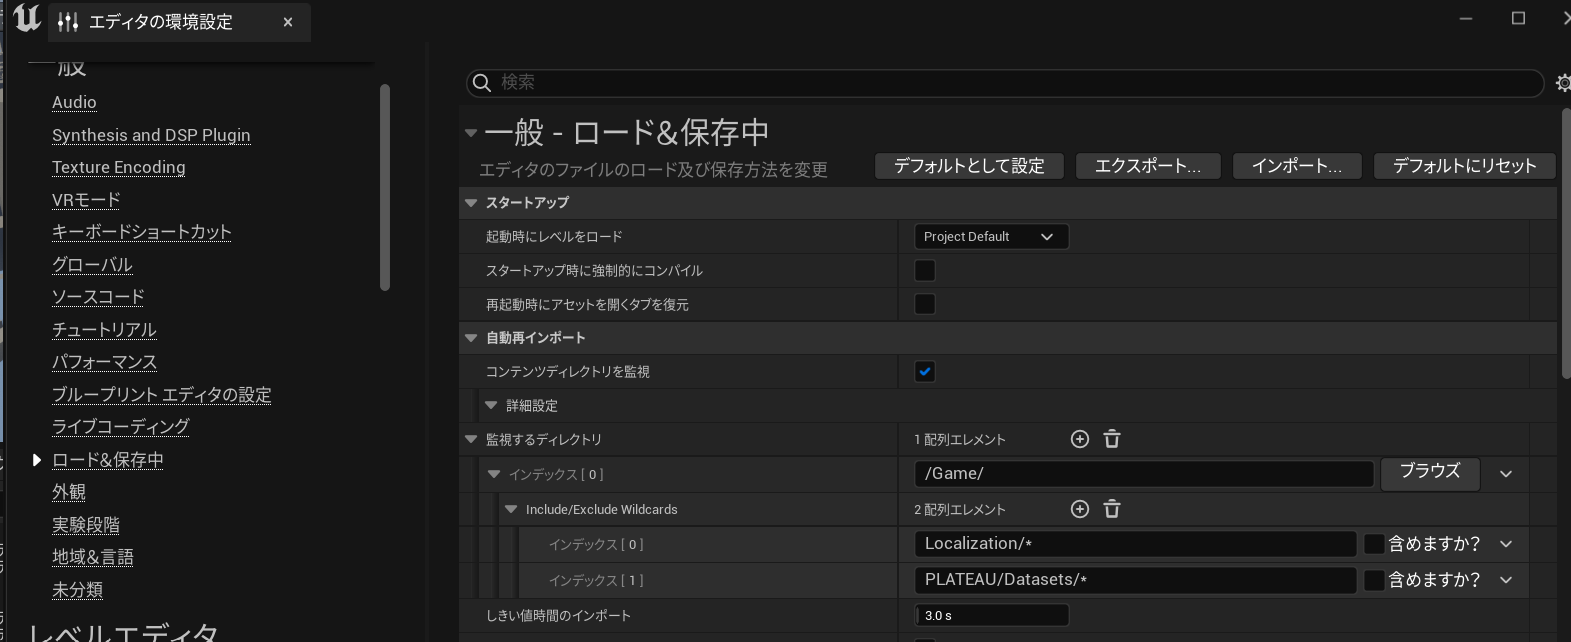
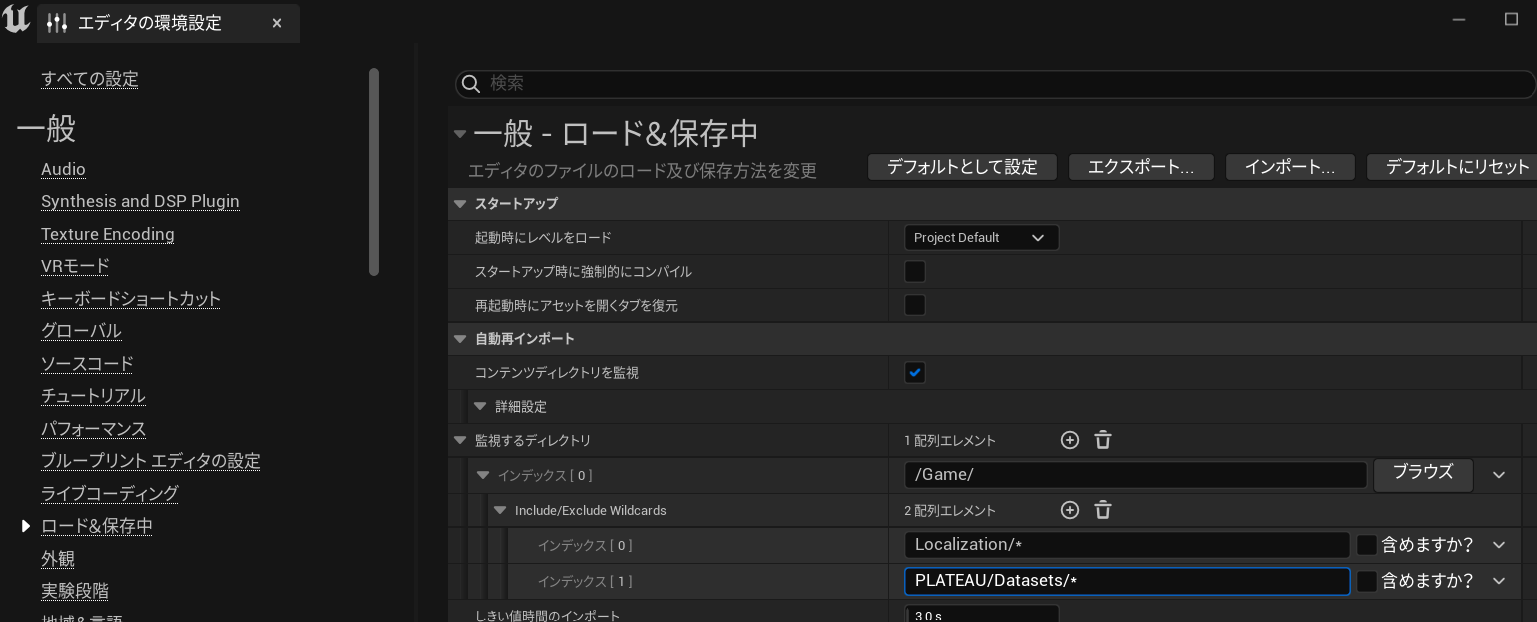
ドキュメント更新

diff --git a/Source/PLATEAURuntime/Private/PLATEAUCityModelLoader.cpp b/Source/PLATEAURuntime/Private/PLATEAUCityModelLoader.cpp
@@ -23,43 +23,19 @@ APLATEAUCityModelLoader::APLATEAUCityModelLoader() {
 }
 
 namespace {
-    void ExecuteInGameThread(const FString& LoaderName, TFunctionRef<void(APLATEAUCityModelLoader*)> Lambda) {
+    void ExecuteInGameThread(APLATEAUCityModelLoader* Loader, TFunctionRef<void(APLATEAUCityModelLoader*)> Lambda) {
         FFunctionGraphTask::CreateAndDispatchWhenReady(
-            [LoaderName, &Lambda] {
-                TArray<AActor*> ActorsToFind;
-                UGameplayStatics::GetAllActorsOfClass(GWorld, APLATEAUCityModelLoader::StaticClass(), ActorsToFind);
-                for (AActor* LoaderActor : ActorsToFind) {
-                    const auto LoaderActorCast = Cast<APLATEAUCityModelLoader>(LoaderActor);
-                    if (LoaderActorCast == nullptr)
-                        continue;
-
-                    if (LoaderActorCast->GetActorNameOrLabel() == LoaderName) {
-                        Lambda(LoaderActorCast);
-                        return;
-                    }
-                }
-                UE_LOG(LogTemp, Error, TEXT("CityModelLoader not found"));
+            [Loader, &Lambda] {
+                Lambda(Loader);
             }, TStatId(), nullptr, ENamedThreads::GameThread)
             ->Wait();
     }
 
-    int ExecuteInGameThreadWithReturn(const FString& LoaderName, TFunctionRef<int(APLATEAUCityModelLoader*)> Lambda) {
+    int ExecuteInGameThreadWithReturn(APLATEAUCityModelLoader* Loader, TFunctionRef<int(APLATEAUCityModelLoader*)> Lambda) {
         int Result;
         FFunctionGraphTask::CreateAndDispatchWhenReady(
-            [LoaderName, &Lambda, &Result] {
-                TArray<AActor*> ActorsToFind;
-                UGameplayStatics::GetAllActorsOfClass(GWorld, APLATEAUCityModelLoader::StaticClass(), ActorsToFind);
-                for (AActor* LoaderActor : ActorsToFind) {
-                    const auto LoaderActorCast = Cast<APLATEAUCityModelLoader>(LoaderActor);
-                    if (LoaderActorCast == nullptr)
-                        continue;
-
-                    if (LoaderActorCast->GetActorNameOrLabel() == LoaderName) {
-                        Result = Lambda(LoaderActorCast);
-                        return;
-                    }
-                }
-                UE_LOG(LogTemp, Error, TEXT("CityModelLoader not found"));
+            [Loader, &Lambda, &Result] {
+                Result = Lambda(Loader);
             }, TStatId(), nullptr, ENamedThreads::GameThread)
             ->Wait();
             return Result;
@@ -94,7 +70,7 @@ void APLATEAUCityModelLoader::LoadAsync() {
             ExtentData = Extent.GetNativeData(),
             GeoReferenceData = GeoReference.GetData(),
             ImportSettings = ImportSettings,
-            OwnerLoaderName = this->GetActorNameOrLabel()
+            OwnerLoader = this
         ]{
             // ファイル検索
             const auto UdxFileCollection =
@@ -135,23 +111,12 @@ void APLATEAUCityModelLoader::LoadAsync() {
         }
     }
 
-    ExecuteInGameThread(OwnerLoaderName,
+    ExecuteInGameThread(OwnerLoader,
         [GmlCount = LoadInputDataArray.Num()](APLATEAUCityModelLoader* Loader){
         Loader->Status.TotalGmlCount = GmlCount;
     });
 
     for (int Index = 0; Index < LoadInputDataArray.Num(); ++Index) {
-        // TODO: RW Lock
-        FGenericPlatformProcess::ConditionalSleep(
-            [OwnerLoaderName]() {
-            const auto RunningTaskCount = ExecuteInGameThreadWithReturn(OwnerLoaderName,
-                [OwnerLoaderName](APLATEAUCityModelLoader* Loader) {
-                    return Loader->Status.LoadingGmls.Num();
-                });
-            return RunningTaskCount < 4;
-        }
-        , 2);
-
         const auto Destination = FPaths::ProjectContentDir() + "PLATEAU/Datasets";
 
         FLoadInputData InputData = LoadInputDataArray[Index];
@@ -168,10 +133,25 @@ void APLATEAUCityModelLoader::LoadAsync() {
             UE_LOG(LogTemp, Error, TEXT("Failed to copy %s"), *InputData.GmlPath);
         }
 
+        FGenericPlatformProcess::ConditionalSleep(
+            [OwnerLoader]() {
+                const auto RunningTaskCount = ExecuteInGameThreadWithReturn(OwnerLoader,
+                    [](APLATEAUCityModelLoader* Loader) {
+                        return Loader->Status.LoadingGmls.Num();
+                    });
+                return RunningTaskCount < 2;
+            }
+        , 2);
+
         const auto GmlName = FPaths::GetCleanFilename(InputData.GmlPath);
 
+        ExecuteInGameThread(OwnerLoader,
+            [GmlName](APLATEAUCityModelLoader* Loader) {
+                Loader->Status.LoadingGmls.Add(GmlName);
+            });
+
         if (!FetchResult) {
-            ExecuteInGameThread(OwnerLoaderName,
+            ExecuteInGameThread(OwnerLoader,
                 [&GmlName](APLATEAUCityModelLoader* Loader) {
                     Loader->Status.LoadedGmlCount++;
                     Loader->Status.LoadingGmls.Remove(GmlName);
@@ -183,12 +163,7 @@ void APLATEAUCityModelLoader::LoadAsync() {
 
         Async(EAsyncExecution::Thread,
         [InputData, Destination, UdxFileCollection, &LoadInputDataArray, Source,
-            ModelActor, GmlName, OwnerLoaderName] {
-                ExecuteInGameThread(OwnerLoaderName,
-                    [GmlName](APLATEAUCityModelLoader* Loader) {
-                        Loader->Status.LoadingGmls.Add(GmlName);
-                    });
-
+            ModelActor, GmlName, OwnerLoader] {
                 // TODO: libplateauに委譲
                 FString RelativeGmlPath = InputData.GmlPath;
                 // 末尾に/が無いなら追加(MakePathRelativeToで末尾のディレクトリ名を含めるため)
@@ -200,7 +175,7 @@ void APLATEAUCityModelLoader::LoadAsync() {
                 if (!FPaths::MakePathRelativeTo(RelativeGmlPath, *RootPath)) {
                     //TODO: Error Handling
                     UE_LOG(LogTemp, Error, TEXT("Invalid source: %s"), *Source);
-                        ExecuteInGameThread(OwnerLoaderName,
+                        ExecuteInGameThread(OwnerLoader,
                             [GmlName](APLATEAUCityModelLoader* Loader) {
                                 Loader->Status.LoadedGmlCount++;
                                 Loader->Status.LoadingGmls.Remove(GmlName);
@@ -226,7 +201,7 @@ void APLATEAUCityModelLoader::LoadAsync() {
                 if (CityModel == nullptr || !ParseResult) {
                     //TODO: Error Handling
                     UE_LOG(LogTemp, Error, TEXT("Failed to parse %s"), *CopiedGmlPath);
-                    ExecuteInGameThread(OwnerLoaderName,
+                    ExecuteInGameThread(OwnerLoader,
                         [GmlName](APLATEAUCityModelLoader* Loader) {
                             Loader->Status.LoadedGmlCount++;
                             Loader->Status.LoadingGmls.Remove(GmlName);
@@ -261,7 +236,7 @@ void APLATEAUCityModelLoader::LoadAsync() {
 
                 FPLATEAUMeshLoader().LoadModel(ModelActor, GmlRootComponent, Model);
 
-                ExecuteInGameThread(OwnerLoaderName,
+                ExecuteInGameThread(OwnerLoader,
                     [GmlName](APLATEAUCityModelLoader* Loader) {
                         Loader->Status.LoadedGmlCount++;
                         Loader->Status.LoadingGmls.Remove(GmlName);

diff --git a/Documentation/manual/ImportCityModels.md b/Documentation/manual/ImportCityModels.md
@@ -1,20 +1,19 @@
 # 都市モデルのインポート
 
-このページでは、都市データをUnityプロジェクトにインポートする手順を説明します。
+このページでは、都市データをUE5のプロジェクトにインポートする手順を説明します。
 
 ## 準備
-- PlateauSDK を導入したUnityプロジェクトを用意します。  
+- PLATEAU SDK for Unreal を導入したUE5プロジェクトを用意します。  
   SDKの導入方法は [インストール](Installation.md) を参照してください。
 
 ## インポート手順
 ### インポート元の選択
-- Unityのメニューバーから ```PLATEAU → PLATEAU SDK``` を選択します。   
+- Unreal Engineのメニューバーから ```PLATEAU → PLATEAU SDK``` を選択します。   
   表示されるウィンドウの上部に3つのタブ「インポート、モデル調整、エクスポート」があります。  
   このうちインポートを選択します。
 ![](../resources/manual/importCityModels/plateauWindowImport.png)
 - インポート先がローカルかサーバーかを選択します。
-  - 導入したい都市データが自分のコンピュータにある場合はローカルを選択します。  
-    なお、都市データは国交省のPLATEAU Webサイトからダウンロードできます。
+  - 導入したい都市データが自分のコンピュータにある場合はローカルを選択します。  3D都市モデルはG空間情報センターのPLATEAUポータルサイトからダウンロードできます。
     - ```参照```ボタンを押します。都市データのフォルダの選択画面が表示されます。
     - 都市データのフォルダの中には、```udx```,```codelists```という名前のフォルダがあるはずです。  
       ```udx```の**1つ上**のフォルダを選択します。
@@ -32,13 +31,8 @@
 - ```範囲選択```ボタンを押します。
 - 利用可能な範囲の一覧が緑色の線で表示されます。
 ![](../resources/manual/importCityModels/areaSelectWindow.png)  
-  地図の全体像がうまく表示されない場合は次の操作を試してください:  
-  - マウスホイールを上下に回してズームアウト、ズームイン
-  - マウスホイールを押し込んだままドラッグしてカメラ移動
-  - 右マウスボタンを押したままドラッグで向き変更
-- 青色の球体をドラッグして範囲を選択します。
+- 青色のハンドルをドラッグして範囲を選択します。
 - シーンビュー左上の```決定```ボタンを押します。
-![](../resources/manual/importCityModels/areaSelected.png)
 - **補足**:  
   地域の区分を確認したい時は、ローカルにダウンロードしたフォルダに付属している ```indexmap``` という名前のpdfファイルをご覧ください。  
 下図のように地図上に区分が記載されています。
@@ -50,16 +44,13 @@
 **設定項目について:**
 - ```インポートする```
   - チェックが付いている地物タイプのみインポートします。
-- ```Mesh Collider をセットする```
-  - チェックが付いている場合、各モデルの Collider が有効になります。
 - ```テクスチャを含める```
   - テクスチャが存在する地物タイプで表示される設定項目です。  
     チェックが付いていて、かつテクスチャがある場合はそれを含めてインポートします。  
     都市データによってはテクスチャがない場合があり、  
     その場合はチェックを外した時と同様に真っ白な3Dモデルが出力されます。
-- ```LOD描画設定```
-  - 複数のLODを利用可能な地物タイプで表示される設定項目です。  
-    バーの左端と右端をドラッグして、インポートするLODの範囲を指定できます。
+- ```最小LOD```, ```最大LOD```
+  - 複数のLODを利用可能な地物タイプで表示される設定項目です。
 
 >[!NOTE]
 > **LODとは**  
@@ -90,3 +81,7 @@
 - 処理が進むと、都市のオブジェクトが順次シーンに配置されていきます。  
   進捗表示がすべて「完了」になったらインポート終了です。  
 ![](../resources/manual/importCityModels/importComplete.png)
+
+### 読み込み状況の確認
+PLATEAUCityModelLoaderアクタの詳細パネルから読み込み状況の確認ができます。
+![](../resources/manual/importCityModels/progress.png)

diff --git a/Documentation/manual/AccessCityObject.md b/Documentation/manual/AccessCityObject.md
@@ -1,82 +1,2 @@
-# 都市情報へのアクセス
-
-C#プログラムによって都市情報にアクセスする手順は、おおまかには次のとおりです。  
-- GameObject から CityObject を取得  
-- CityObject から 属性(AttributesMap) を取得
-- 属性から値を取得  
-
-以下で詳しく解説します。  
-まずサンプルを提示し、次に都市情報を取得するために知っておくべきことを解説します。
-
-## サンプル
-シーンに配置された都市の3Dモデルから、都市情報の1つである属性を取得できます。  
-そのサンプルとして、```PlateauLogAttributes``` シーンをご覧ください。  
-シーンを開いてPlayボタンを押すと、建物の情報がUnityコンソールに表示されます。  
-そのコードのサンプルが ```PlateauAttributesLogger.cs``` になります。
-
-
-## 属性とは
-取得できる都市情報の1つに「属性」があります。  
-属性は例えば  
-```text
- (String) 大字・町コード => 42,
- (String) 防火及び準防火地域 => 準防火地域
-```
-のように、キーと値のペアからなる辞書形式の情報です。  
-属性の値は文字列型として取得できるか、または  
-子の属性（属性は入れ子になることもあります）として取得できるかのいずれかです。  
-属性が入れ子になっている例は次のとおりです（サンプルシーンの実行結果から抜粋）。
-```text
- (AttributeSet) 多摩水系多摩川、浅川、大栗川洪水浸水想定区域（想定最大規模） => 
-    [ { (String) 浸水ランク => 2 }
-    { (Measure) 浸水深 => 0.990 }
-    { (Measure) 継続時間 => 0.68 }
-    { (String) 規模 => L2 }  
-]}
-```
-上の例において、(括弧)内の文字は属性の型を示します。  
-属性は次の型があります:  
-```AttributeSet, String, Double, Integer, Data, Uri, Measure```  
-AttributeSet以外の型はすべて内部的には文字列型であり、  
-```attributeValue.AsString``` で値を取得できます。  
-入れ子AttributeSetの値は ```AsString``` では取得できず、```attributeValue.AsAttrSet```で取得できます。
-
-
-## 属性の取得
-
-シーンの GameObject から都市情報の属性を取得する方法については  
-サンプルの ```PlateauAttributesLogger.cs``` が例になります。  
-その補足として、方法の概要を以下に記します。
-
-
-### シーンのヒエラルキー
-PlateauデータをUnityにインポートすると、  
-サンプルシーンにあるとおり、次の階層構造でオブジェクトが配置されます。
-
-```text
- 都市モデルルート( CityBehaviour がアタッチされます )
-   → 子 : 3Dモデルファイルのインスタンス ( プレハブとして配置されます )
-             → 子 : CityObject に対応する GameObject
-```
-
-すなわち、 CityBehaviour の孫にあたる GameObject が CityObject と対応します。
-
-### CityObject の取得
-GameObject の名称から CityObject を取得するには次のようにします。  
-```cs
-var cityObj = cityBehaviour.LoadCityObject(gameObj.name);
-```   
-そうすると CityBehaviour は自身の参照するメタデータを利用し、  
-GameObjectの名称からどの gml ファイルをロードするべきか検索します。  
-そして gmlファイルから CityModel ロードして（ロード済みの場合はキャッシュが使われます）、  
-CityModel のうち 該当する CityObject を返します。  
-
-**補足:**  
-ここで利用するメタデータとは、  
-インポート時に生成される CityMetaData型の Scriptable Object です。  
-CityMetaDataは、インポート時に GameObject名と gmlファイル名の対応表を記録します。
-
-### CityObject の属性の取得
-CityObject から属性を取得するには、  
-```cityObject.AttributesMap``` を利用します。  
-属性については上述の通りです。
+# 属性情報へのアクセス
+Coming Soon...

diff --git a/Documentation/manual/Installation.md b/Documentation/manual/Installation.md
@@ -11,10 +11,22 @@
 ![](../resources/manual/installation/unrealEngineNewProjectCategory.png)
 
 ## PLATEAU SDK for Unreal の導入
- - [PLATEAU SDK for Unreal をこちらからダウンロードします。](https://github.com/Synesthesias/PlateauUESDK)。
-![](../resources/manual/installation/downloadFromGit.png)
- - 作成したプロジェクトのフォルダに```Plugins```という名前のフォルダを作成し、先程ダウンロードしたSDKをコピーします。
-![](../resources/manual/installation/pluginInstall.png)
+ - 提供されているPLATEAU SDK for Unrealをダウンロードします。
+ - 作成したプロジェクトのフォルダに```Plugins```という名前のフォルダを作成し、先程ダウンロードしたSDKを解凍しコピーします。
+ - ```Plugins/PLATEAU-SDK-for-Unreal/PLATEAU-SDK-for-Unreal.uproject```が存在することを確認します。
  - プロジェクトを開きます。既にプロジェクトを開いている場合は一度閉じてから再度プロジェクトを開いてください。
  - プロジェクトを開く際に以下の画面が表示されるので```はい```を押して完了です。
 ![](../resources/manual/installation/pluginBuild.png)
+
+# エディタ設定の変更(推奨)
+## 自動再インポート対象の除外
+1. ```エディタの環境設定```から```ロード＆保存中```→```監査するディレクトリ```→```インデックス[0]```を選択します。
+2. 除外対象として```PLATEAU/Datasets/*```を追加します。
+![](../resources/manual/installation/excludeFromReimportTarget.png)
+この操作を行わない場合、取得されたgmlファイル等の生データを手動でインポート対象から除外する必要があります。
+
+## 距離スケーリング済みのカメラ速度を使用
+1. ```エディタの環境設定```から```距離スケーリング```で検索します。
+2. ```距離スケーリング済みのカメラ速度を使用```にチェックを入れます。
+![](../resources/manual/installation/distanceScaled.png)
+この操作を行うことで広域なマップでの操作性が向上します。

diff --git a/Documentation/developer-guide/Documentation.md b/Documentation/developer-guide/Documentation.md
@@ -2,7 +2,7 @@
 
 ## マニュアルの追加
 1. [manual](../manual)ディレクトリにマークダウンでページを追加する。
-2. 画像を追加したい場合、`Documentation~/resources/ページ名`ディレクトリを作成しファイルを追加する。
+2. 画像を追加したい場合、`Documentation/resources/ページ名`ディレクトリを作成しファイルを追加する。
 3. [toc.yml](../manual/toc.yml)を編集しサイドバーに項目を追加する。
 
 ## ローカルでの確認

diff --git a/Documentation/manual/Tutorial.md b/Documentation/manual/Tutorial.md
@@ -1,1 +1,2 @@
 # チュートリアル
+Coming Soon...
